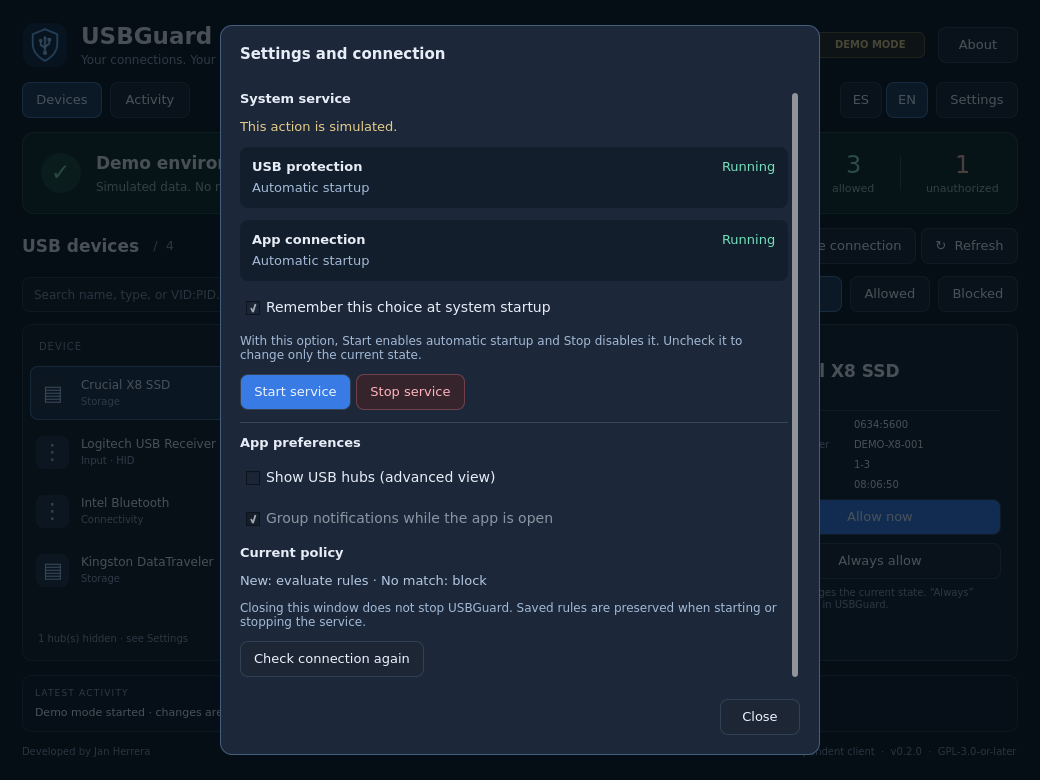
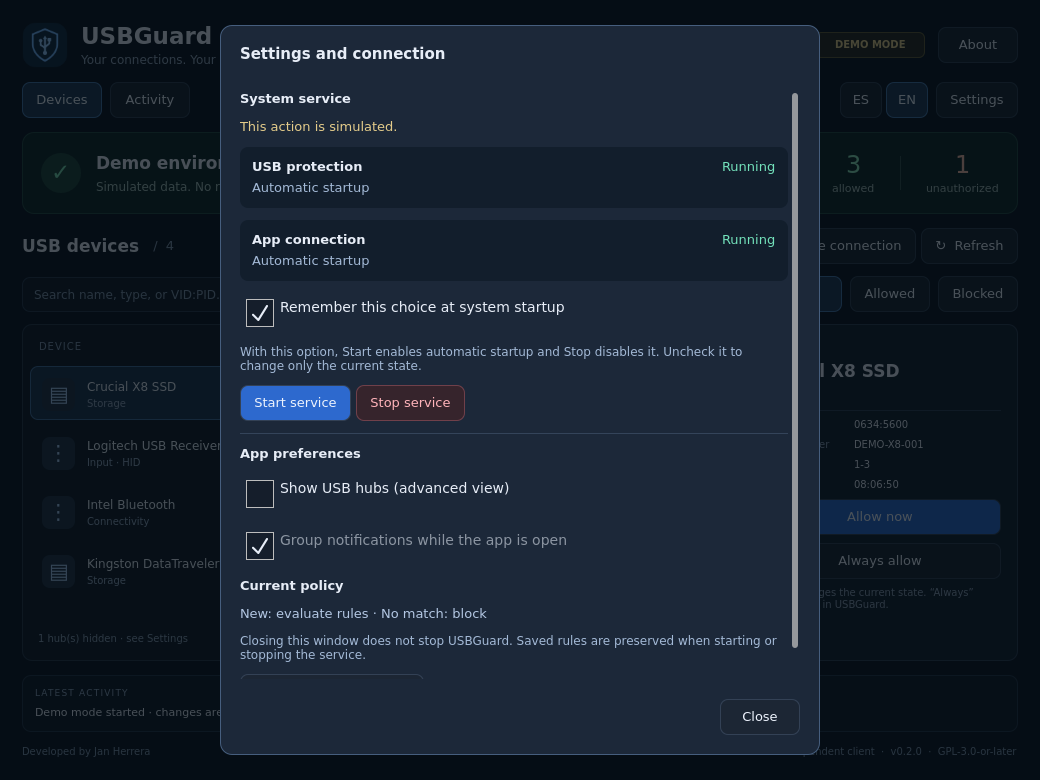
fix: validate VM compatibility and improve accessibility

diff --git a/src/usbguard_control/qml/ActionButton.qml b/src/usbguard_control/qml/ActionButton.qml
@@ -1,7 +1,7 @@
 // SPDX-FileCopyrightText: 2026 Jan Herrera
 // SPDX-License-Identifier: GPL-3.0-or-later
 import QtQuick
-import QtQuick.Controls
+import QtQuick.Controls.Basic
 Button {
     id: button
     property string tone: "normal"
@@ -14,7 +14,7 @@ Button {
     opacity: enabled ? 1 : 0.38
     background: Rectangle {
         radius: 8
-        color: button.down ? "#29496d" : button.tone === "primary" ? "#397be5" : button.tone === "danger" ? "#36242c" : button.selected ? "#223b58" : button.hovered ? "#283344" : "#1c2634"
+        color: button.down ? "#29496d" : button.tone === "primary" ? "#2d69ce" : button.tone === "danger" ? "#36242c" : button.selected ? "#223b58" : button.hovered ? "#283344" : "#1c2634"
         border.color: button.activeFocus ? "#a6caff" : button.tone === "danger" ? "#70404a" : button.selected ? "#4876aa" : "#334155"
         border.width: button.activeFocus ? 2 : 1
     }

diff --git a/src/usbguard_control/qml/Main.qml b/src/usbguard_control/qml/Main.qml
@@ -1,7 +1,7 @@
 // SPDX-FileCopyrightText: 2026 Jan Herrera
 // SPDX-License-Identifier: GPL-3.0-or-later
 import QtQuick
-import QtQuick.Controls
+import QtQuick.Controls.Basic
 import QtQuick.Layouts
 import QtQuick.Dialogs
 
@@ -17,7 +17,7 @@ ApplicationWindow {
     palette.window: "#101722"; palette.windowText: "#e7edf7"
     palette.base: "#151e2b"; palette.text: "#e7edf7"
     palette.button: "#223044"; palette.buttonText: "#e7edf7"
-    palette.highlight: "#397be5"; palette.highlightedText: "#ffffff"
+    palette.highlight: "#2d69ce"; palette.highlightedText: "#ffffff"
     property int page: 0
     readonly property bool compact: height < 720
     property string activeFilter: "all"

diff --git a/src/usbguard_control/qml/WrapCheckBox.qml b/src/usbguard_control/qml/WrapCheckBox.qml
@@ -1,9 +1,10 @@
 // SPDX-FileCopyrightText: 2026 Jan Herrera
 // SPDX-License-Identifier: GPL-3.0-or-later
 import QtQuick
-import QtQuick.Controls
+import QtQuick.Controls.Basic
 CheckBox {
     id: check
+    Accessible.name: text
     implicitWidth: 260
     font.pixelSize: 14
     contentItem: UiText {

diff --git a/src/usbguard_control/qml/UiText.qml b/src/usbguard_control/qml/UiText.qml
@@ -1,7 +1,7 @@
 // SPDX-FileCopyrightText: 2026 Jan Herrera
 // SPDX-License-Identifier: GPL-3.0-or-later
 import QtQuick
-import QtQuick.Controls
+import QtQuick.Controls.Basic
 Label {
     color: "#e7edf7"
     font.pixelSize: 13

diff --git a/tests/test_accessibility.py b/tests/test_accessibility.py
@@ -1,0 +1,88 @@
+"""Keyboard operation and the accessible names exposed by the real QML controls."""
+from pathlib import Path
+import time
+
+import pytest
+from PySide6.QtCore import QEvent, QObject, Qt, QUrl
+from PySide6.QtGui import QAccessible, QGuiApplication, QKeyEvent
+from PySide6.QtQml import QQmlApplicationEngine
+from PySide6.QtQuick import QQuickWindow
+from shiboken6 import delete
+
+from usbguard_control.controller import Controller
+from usbguard_control.localization import Language, Translator
+
+
+def settle(app, seconds=.1):
+    until = time.monotonic() + seconds
+    while time.monotonic() < until:
+        app.processEvents()
+        time.sleep(.005)
+
+
+def luminance(color):
+    channels = (color.redF(), color.greenF(), color.blueF())
+    linear = [c / 12.92 if c <= .04045 else ((c + .055) / 1.055) ** 2.4
+              for c in channels]
+    return sum(c * weight for c, weight in zip(linear, (.2126, .7152, .0722)))
+
+
+def key_click(window, key):
+    for event_type in (QEvent.KeyPress, QEvent.KeyRelease):
+        QGuiApplication.sendEvent(window, QKeyEvent(event_type, key, Qt.NoModifier))
+
+
+@pytest.mark.parametrize('locale,settings_name', [('es-419', 'Configuración'),
+                                                 ('en-US', 'Settings')])
+def test_keyboard_settings_accessible_labels_and_primary_contrast(locale, settings_name):
+    app = QGuiApplication.instance() or QGuiApplication([])
+    language = Language(locale)
+    translator = Translator(language)
+    app.installTranslator(translator)
+    control = Controller(demo=True, language=language)
+    engine = QQmlApplicationEngine()
+    engine.rootContext().setContextProperty('control', control)
+    engine.rootContext().setContextProperty('language', language)
+    engine.load(QUrl.fromLocalFile(str(Path(__file__).parents[1] / 'src/usbguard_control/qml/Main.qml')))
+    try:
+        window = engine.rootObjects()[0]
+        assert isinstance(window, QQuickWindow)
+        settle(app, .3)
+        settings = window.findChild(QObject, 'settingsButton')
+        interface = QAccessible.queryAccessibleInterface(settings)
+        assert interface.text(QAccessible.Name) == settings_name
+        assert interface.role() == QAccessible.Button
+        settings.forceActiveFocus()
+        key_click(window, Qt.Key_Space)
+        settle(app)
+        dialog = window.findChild(QObject, 'settingsDialog')
+        assert dialog.property('visible'), 'Settings must open using the keyboard'
+        remember = window.findChild(QObject, 'rememberService')
+        interface = QAccessible.queryAccessibleInterface(remember)
+        assert interface.text(QAccessible.Name) == remember.property('text')
+        assert interface.role() == QAccessible.CheckBox
+        assert interface.state().checked
+        remember.forceActiveFocus()
+        key_click(window, Qt.Key_Space)
+        settle(app)
+        assert not remember.property('checked')
+        assert not interface.state().checked
+        key_click(window, Qt.Key_Tab)
+        settle(app)
+        start = window.findChild(QObject, 'startServiceButton')
+        assert start.hasActiveFocus(), 'Tab must reach Start from the boot preference'
+        fg = luminance(start.property('contentItem').property('color'))
+        bg = luminance(start.property('background').property('color'))
+        assert (max(fg, bg) + .05) / (min(fg, bg) + .05) >= 4.5
+        key_click(window, Qt.Key_Space)
+        settle(app)
+        assert control.serviceConfirmation == {'action': 'start', 'remember': False}
+        key_click(window, Qt.Key_Escape)
+        settle(app)
+        assert not control.serviceConfirmation
+        assert all(u['active'] == 'active' for u in control.serviceState['units'])
+    finally:
+        control.shutdown()
+        delete(engine)
+        app.removeTranslator(translator)
+        app.processEvents()

diff --git a/scripts/build_deb.py b/scripts/build_deb.py
@@ -22,7 +22,7 @@ def main():
         (app_dir / "launch.py").write_text('import sys\nfrom pathlib import Path\nsys.path.insert(0, str(Path(__file__).parent))\nfrom usbguard_control.app import main\nraise SystemExit(main())\n')
         binary = stage / "usr/bin/usbguard-control"
         binary.parent.mkdir(parents=True)
-        binary.write_text('#!/bin/sh\nexec /usr/bin/python3 -I /usr/share/usbguard-control/launch.py "$@"\n')
+        binary.write_text('#!/bin/sh\nexec /usr/bin/python3 -B -I /usr/share/usbguard-control/launch.py "$@"\n')
         binary.chmod(0o755)
         desktop = stage / "usr/share/applications"
         desktop.mkdir(parents=True)

diff --git a/src/usbguard_control/app.py b/src/usbguard_control/app.py
@@ -31,7 +31,6 @@ def main(argv=None):
             from gi.repository import Gio  # noqa: F401
         except ImportError:
             parser.error("Falta PyGObject. En Kali: sudo apt install python3-gi")
-    os.environ.setdefault("QT_QUICK_CONTROLS_STYLE", "Basic")
     app = QGuiApplication([sys.argv[0]])
     app.setApplicationName("USBGuard Control")
     app.setApplicationVersion(__version__)

diff --git a/docs/VALIDATION.md b/docs/VALIDATION.md
@@ -2,7 +2,7 @@
 
 ## Resultado local — 8 de noviembre de 2026
 
-- **44 pruebas automatizadas aprobadas** con la suite de `scripts/check.sh` en Kali 2026.3, Python 3.14.8 y PySide6 6.10.3; incluyen regresiones de Bluetooth y avisos obsoletos tras desconectar un dispositivo.
+- **46 pruebas automatizadas aprobadas** con la suite de `scripts/check.sh` en Kali 2026.3, Python 3.14.8 y PySide6 6.10.3; incluyen regresiones de Bluetooth, avisos obsoletos, teclado, nombres accesibles y contraste del botón principal.
 - Regresión de refresco: consultas idénticas sin cambios visuales, indicador manual conservado, clics de dispositivo/servicio/actualización durante la consulta, cambios reales, desconexión y recuperación ante errores.
 - Medición de dos ciclos automáticos contra USBGuard real, en una instancia invisible: intervalo de cinco segundos, opacidad de botones al 100 %, datos seleccionados iguales y ninguna notificación visual redundante. No se cambiaron reglas ni servicios.
 - Controles de servicios verificados contra un systemd simulado en un bus privado: firmas reales, autenticación interactiva, orden de inicio/parada, persistencia opcional, cancelación/denegación, cambios externos, jobs fallidos y fallos parciales.
@@ -34,7 +34,7 @@ Resultados observados por la API real y confirmados por el usuario:
 | Política efectiva | Nuevos dispositivos: evaluar reglas; sin coincidencia: bloquear |
 | Reglas generales de GNOME | No se encontró la regla de autorización general de GNOME |
 
-El teclado mencionado funciona por Bluetooth y no se enumeró como teclado USB por su cable; no se presenta como una prueba de teclado USB. No se reinició el equipo, no se probó una recuperación de emergencia y no se considera completada una instalación/desinstalación en una VM limpia. No se publican números de serie, hashes ni reglas reales en el repositorio.
+El teclado mencionado funciona por Bluetooth y no se enumeró como teclado USB por su cable; no se presenta como una prueba de teclado USB. No se reinició el equipo físico. Los reinicios, recuperación e instalación/desinstalación se probaron después en VMs, como se describe abajo. No se publican números de serie, hashes ni reglas del hardware personal en el repositorio.
 
 ### Acceso a documentos del iPhone
 
@@ -58,25 +58,73 @@ Con el teléfono desbloqueado, `idevicepair validate` terminó correctamente y G
 
 Ejecutar `sh scripts/check.sh`. La prueba D-Bus usa un servicio simulado; no valida las decisiones reales del kernel ni la autenticación de un agente Polkit.
 
-## Antes de publicar una release estable
+## Pruebas en máquinas virtuales KVM — 8 de noviembre de 2026
 
-- [ ] Instalar y desinstalar el `.deb` en una VM Kali 2026.3 limpia.
+Se creó una instantánea de Kali y un respaldo completo verificado del disco y firmware UEFI de Parrot antes de modificar las VMs. La protección del equipo físico permaneció activa. Se emplearon discos USB virtuales vacíos; no se redirigieron el mouse, teclado ni iPhone del host.
+
+| Entorno real | Versiones verificadas | Resultado |
+|---|---|---|
+| Kali 2026.1, Xfce 4.20.3, X11 | Python 3.13.9; PySide6 6.11.2; USBGuard 1.1.4+ds-10 | Instalación, GUI, autenticación, USB virtual y recuperación aprobados |
+| Parrot 7.4, KDE Plasma 6.3.6, Wayland | Python 3.13.5; PySide6 6.8.2.1; USBGuard 1.1.3+ds-3 | Instalación, GUI, API real, arranque, eventos y recuperación de conexión aprobados |
+
+El nombre de la VM Parrot era «Parrot 7.2», pero `/etc/os-release` informa 7.4. La VM Kali conserva su identidad 2026.1; instalar dependencias desde kali-rolling no equivale a validar una instalación limpia de Kali 2026.3.
+
+| Prueba | Evidencia observada |
+|---|---|
+| `.deb` sin daemon, ambas VMs | La interfaz abre y muestra ausencia del servicio sin instalarlo ni iniciarlo |
+| Desinstalar/reinstalar, ambas VMs | Se retiran lanzador, menú y archivos de aplicación; no se modifican reglas ni el daemon |
+| Instalador completo | Ambos servicios quedan inactivos/enmascarados antes de revisar las reglas |
+| Instalador sobre USBGuard existente | Rechazo explícito; configuración preservada |
+| Controles gráficos Xfce con Polkit real | Iniciar/detener con y sin recordar: cuatro combinaciones verificadas como usuario normal |
+| Cancelación Polkit Xfce | Se cancela el diálogo nativo; ambos servicios conservan `active/enabled` |
+| Inicio tras reinicio, ambas VMs | Unidades activas/habilitadas después de un nuevo arranque |
+| Arranque deshabilitado, Kali | Unidades inactivas/deshabilitadas después de reiniciar |
+| Recuperación, Kali | Con el drop-in de condiciones correcto y `usbguard=0`, el daemon no inicia; retirado el parámetro, vuelve a iniciar normalmente |
+| USB virtual, Kali | Nuevo bloqueado en el kernel; permiso temporal caduca al reconectar; permiso persistente sobrevive reconexión y cuatro reinicios |
+| Revocación, Kali | Se retira únicamente la regla del disco de prueba; reconectar vuelve a producir `authorized=0` |
+| Reinicio del daemon, Kali | Una confirmación con propietario D-Bus antiguo se rechaza; la regla persistente permanece |
+| Dos clientes simultáneos, Parrot | Ambos ven conexión, autorización externa y desconexión del mismo USB virtual |
+| Retirada con confirmación abierta, Parrot | Se rechaza la operación; no se aplica a otro dispositivo ni se conserva una selección obsoleta |
+| Interrupción del puente, Parrot | Ambos clientes detectan la pérdida y recuperan conexión al restaurar `usbguard-dbus` |
+| Notificaciones, Parrot | El servicio nativo acepta las notificaciones de conexión/desconexión sin errores |
+| Refresco silencioso real, Parrot | Dos consultas automáticas iniciales sin cambios de selección ni estado ocupado |
+| ES/EN y escala | Ventana 900×620 lógica a 100 %, 150 % y 200 %; KDE se probó con salida virtual 1920×1440 para evitar recorte del compositor |
+| Accesibilidad | Nombres/roles/estado de casilla y teclado en Qt; casilla expuesta por AT-SPI desde otro proceso en ambos idiomas |
+| Lector Orca 48.1, Parrot | Su registro de salida de voz anuncia el nombre de la casilla y el estado al enfocar/cambiarla en ES/EN; también procesa el diálogo de Configuración |
+
+La lectura del daemon debe ejecutarse desde una sesión local activa. Un proceso lanzado administrativamente con `runuser` puede ser considerado inactivo por Polkit aunque tenga `DISPLAY`: se verificó el rechazo y luego el acceso correcto desde los lanzadores reales de Xfce y KDE, sin cambiar políticas de autorización. La prueba de Orca verificó la generación de voz registrada, no una evaluación humana de pronunciación; los términos del lector siguieron el idioma inglés del escritorio.
+
+### Correcciones detectadas por estas pruebas
+
+- El lanzador ahora evita generar bytecode de Python; la desinstalación deja limpio el directorio de la aplicación incluso tras intentar ejecutarla como root.
+- La importación explícita de `QtQuick.Controls.Basic` conserva el diseño y elimina los bucles de geometría del tema Breeze observados en KDE. [Selección de estilos de Qt](https://doc.qt.io/qt-6.8/qtquickcontrols-styles.html).
+- Las casillas personalizadas exponen su nombre accesible. El contraste del texto del botón principal pasó de 3,67:1 a 4,68:1; el test mide los colores del control renderizado. Esto verifica ese par de colores, no certifica toda la aplicación. [Criterio de contraste W3C](https://www.w3.org/WAI/WCAG22/Understanding/contrast-minimum).
+
+No hubo advertencias QML después de corregir KDE. La VM Parrot emitió advertencias EGL por su adaptador virtual y renderizó correctamente; no se presenta como validación de todas las GPU. La recuperación probada interrumpe el puente USBGuard, no reinicia el bus D-Bus completo del escritorio. Las operaciones systemd de Parrot se probaron también por la API administrativa; la autenticación positiva interactiva de los botones se verificó en Xfce.
+
+## Cobertura y comprobaciones adicionales
+
+- [x] Instalar y desinstalar el `.deb` en VMs sin USBGuard Control previo (Kali 2026.1 y Parrot 7.4).
+- [ ] Repetir en una imagen limpia específicamente de Kali 2026.3.
 - [x] Verificar el flujo básico en GNOME Shell 50.4/Wayland con dispositivos reales.
-- [ ] Verificar KDE Plasma y Xfce/X11 en sesiones reales.
-- [ ] Validar escalado 100 %, 150 % y 200 %, foco, lector de pantalla y contraste.
-- [ ] Revisar los dos idiomas con lector de pantalla y diálogos nativos del escritorio.
+- [x] Verificar KDE Plasma/Wayland y Xfce/X11 en sesiones reales.
+- [x] Validar escalado 100 %, 150 % y 200 %, navegación de teclado y contraste del botón principal.
+- [x] Verificar nombres, roles y estados accesibles en ES/EN mediante Qt y AT-SPI.
+- [x] Probar foco y anuncio de la casilla de arranque con Orca real en ES/EN.
+- [ ] Completar una revisión de accesibilidad de todos los flujos con lector de pantalla.
 - [x] Preparar reglas y ejecutar autorizaciones con USBGuard 1.1.4 real y la política Polkit instalada.
 - [x] Verificar permiso temporal y persistente mediante reconexiones físicas.
-- [ ] Verificar arranque completo después de reiniciar, recuperación y posterior revocación.
-- [ ] Denegar/cancelar Polkit, retirar el dispositivo con el diálogo abierto y reiniciar el daemon.
+- [x] Verificar arranque completo después de reiniciar, recuperación y posterior revocación en VM.
+- [x] Denegar/cancelar Polkit, retirar el dispositivo con el diálogo abierto y reiniciar el daemon.
 - [x] Verificar la delegación explícita de GNOME a USBGuard sin regla general de autorización.
-- [ ] Verificar otros cambios externos de políticas y sesiones simultáneas.
-- [ ] Confirmar notificaciones agrupadas y recuperación tras interrupciones del bus.
+- [x] Verificar cambios externos de autorización y dos clientes simultáneos en una sesión.
+- [x] Confirmar entrega de notificaciones y recuperación tras interrupciones del puente D-Bus.
+- [ ] Ampliar a múltiples usuarios/sesiones y ráfagas de muchos dispositivos.
 - [ ] Probar nombres Unicode/escapados de hardware real.
-- [ ] Revisar captura, README, licencias, fuente correspondiente y sumas antes de subir artefactos.
+- [x] Revisar capturas, README, licencias, fuente correspondiente y sumas antes de subir artefactos.
 
 ## Alcance
 
 La ventana muestra actividad de la sesión, no un historial persistente de auditoría. No contiene editor de reglas, autorización global, revocación gráfica ni configuración automática de privilegios. Los controles explícitos de servicio no equivalen a permitir todos los dispositivos. El modo demo no prueba el daemon. La protección de HID de esta interfaz no puede impedir que otra herramienta modifique el mismo dispositivo.
 
-Para 0.2.0 se consultaron las unidades systemd reales sin modificar su estado: ambas activas y habilitadas. La parada/inicio con autenticación real desde los nuevos botones y el arranque tras un reinicio siguen pendientes de prueba física; las pruebas automatizadas no detienen la protección del equipo de desarrollo.
+La parada/inicio con autenticación real y los reinicios se verificaron dentro de las VMs. No se reinició ni se detuvo la protección del equipo de desarrollo durante estas pruebas. Las comprobaciones de nombres Unicode/escapados usan datos sintéticos; no se atribuyen a hardware físico probado.

diff --git a/README.md b/README.md
@@ -12,9 +12,9 @@ USBGuard Control es un cliente independiente para [USBGuard](https://github.com/
 
 ## Estado del proyecto
 
-**v0.2.0 · alpha**. Demostración funcional y cliente D-Bus para USBGuard 1.1.4, con pruebas aisladas y una primera validación física en Kali/GNOME: autorización temporal y persistente de un iPhone, reconexión y permiso persistente de un receptor de mouse. La matriz completa de escritorios y escenarios de recuperación sigue pendiente.
+**v0.2.0 · candidata a primera release**. Cliente D-Bus funcional, paquete Debian y **46 pruebas automatizadas aprobadas**. Validado con hardware real en Kali/GNOME y en VMs Kali/Xfce y Parrot/KDE: instalación/desinstalación, control del servicio, autenticación, reinicios, recuperación, reconexiones y revocación. Consulta los resultados y límites en [Validación](docs/VALIDATION.md).
 
-Desarrollado en Kali 2026.3, Python 3.14 y PySide6 6.10.3. La primera prueba de sesión real se realizó en GNOME Shell 50.4/Wayland; KDE Plasma, Xfce y X11 siguen pendientes. La aplicación no es una extensión de GNOME Shell.
+Entornos probados: Kali 2026.3 con GNOME Shell 50.4/Wayland; Kali 2026.1 con Xfce 4.20.3/X11; Parrot 7.4 con KDE Plasma 6.3.6/Wayland. PySide6 6.8.2.1, 6.10.3 y 6.11.2. Motor principal probado: USBGuard 1.1.4; también se verificó la API 1.1.3 distribuida por Parrot. La aplicación no es una extensión de GNOME Shell.
 
 ## Qué incluye
 
@@ -74,8 +74,8 @@ Atajos: **Ctrl+F** buscar, **Ctrl+R** actualizar, **Ctrl+Q** salir. Tab y Shift+
 ## Hoja de ruta
 
 1. **Prototipo visual:** implementado con demostración funcional y captura real de QML.
-2. **Integración:** cliente D-Bus implementado y primeras pruebas con daemon/hardware reales completadas; faltan escenarios de fallo y recuperación.
-3. **Instalación:** `.deb` instalado mediante APT en Kali/GNOME; falta ensayo de instalación y desinstalación en una VM limpia y otros escritorios.
+2. **Integración:** daemon/hardware reales, Polkit, recuperación, revocación y cambios externos probados; alcance detallado en la matriz de validación.
+3. **Instalación:** `.deb` instalado en Kali/GNOME y ensayado con instalación/desinstalación en VMs Kali/Xfce y Parrot/KDE.
 4. **Portafolio:** documentación bilingüe, autoría, licencia, captura y CI preparados; publicación y primera release pendientes.
 
 Ver [plan de validación](docs/VALIDATION.md). Próximas mejoras: persistencia de las demás preferencias, editor de reglas con respaldo y revocación, y asistente de instalación validado. No se presenta un historial de sesión como si fuera un registro de auditoría completo.

diff --git a/README.en.md b/README.en.md
@@ -12,7 +12,7 @@ An independent Python / PySide6 / Qt Quick client for USBGuard. USBGuard remains
 
 ## Status
 
-**0.2.0 alpha.** Functional demo, real D-Bus client, isolated integration tests and a Debian package. Initial physical validation with USBGuard 1.1.4 passed on Kali 2026.3 / GNOME Shell 50.4 / Wayland: temporary and persistent iPhone authorization, reconnection, and a saved mouse receiver rule. Failure/recovery scenarios and Plasma, Xfce and X11 remain unvalidated. Developed with Python 3.14 and PySide6 6.10.3. Available in Latin American Spanish and US English.
+**0.2.0 · first-release candidate.** Functional D-Bus client, Debian package and **46 passing automated tests**. Tested with physical devices on Kali 2026.3 / GNOME Shell 50.4 / Wayland, and in KVM guests running Kali 2026.1 / Xfce 4.20.3 / X11 and Parrot 7.4 / KDE Plasma 6.3.6 / Wayland. Tests cover installation/removal, service controls, authentication, reboots, recovery, reconnection and rule revocation. PySide6 versions tested: 6.8.2.1, 6.10.3 and 6.11.2. Primary daemon: USBGuard 1.1.4; Parrot's 1.1.3 API was also exercised. See [validation results and limits](docs/VALIDATION.md). Available in Latin American Spanish and US English.
 
 ## Features
 

diff --git a/docs/INSTALL.md b/docs/INSTALL.md
@@ -2,6 +2,8 @@
 
 Objetivo inicial: Kali 2026.3. La revisión candidata observada el 8 de noviembre de 2026 es `usbguard 1.1.4+ds-10`; consulta siempre `apt policy usbguard` en tu equipo. El paquete incluye `usbguard-dbus` y su unidad systemd; no existe la necesidad de instalar otro paquete llamado `usbguard-dbus` en esta revisión.
 
+También se ensayaron instalación/desinstalación en Kali 2026.1/Xfce y Parrot 7.4/KDE. Parrot distribuye `1.1.3+ds-3`: se probaron su API, conexión gráfica y arranque; no se sustituyeron sus paquetes con los de Kali. Consulta la [matriz de validación](VALIDATION.md) para distinguir el alcance de cada prueba. Para el escalado, reserva al menos 900×620 píxeles lógicos de área útil: al 200 % son 1800×1240 píxeles físicos, además de los paneles del escritorio.
+
 ## 1. Probar solo la interfaz
 
 Instala las dependencias gráficas, sin instalar todavía el daemon:

diff --git a/CHANGELOG.md b/CHANGELOG.md
@@ -2,6 +2,10 @@
 
 ## 0.2.0 — 2026-11-08
 
+- Validación en VMs KVM: Kali 2026.1/Xfce/X11 y Parrot 7.4/KDE/Wayland, instalación/desinstalación, controles reales de servicios, reinicios y recuperación.
+- Controles QML con estilo Basic explícito para evitar bucles de geometría introducidos por Breeze en KDE.
+- Etiquetas accesibles de las casillas y contraste mejorado de botones principales; regresiones de teclado y accesibilidad en ES/EN.
+- Lanzador Debian con `-B`: no genera caché de Python propiedad de root que quede después de desinstalar.
 - Consulta automática silenciosa cada cinco segundos, sin atenuar controles ni volver a notificar detalles que no cambiaron; los clics durante la consulta se procesan en orden.
 
 - Configuración con casillas multilínea, ancho limitado y desplazamiento en ventanas pequeñas.
